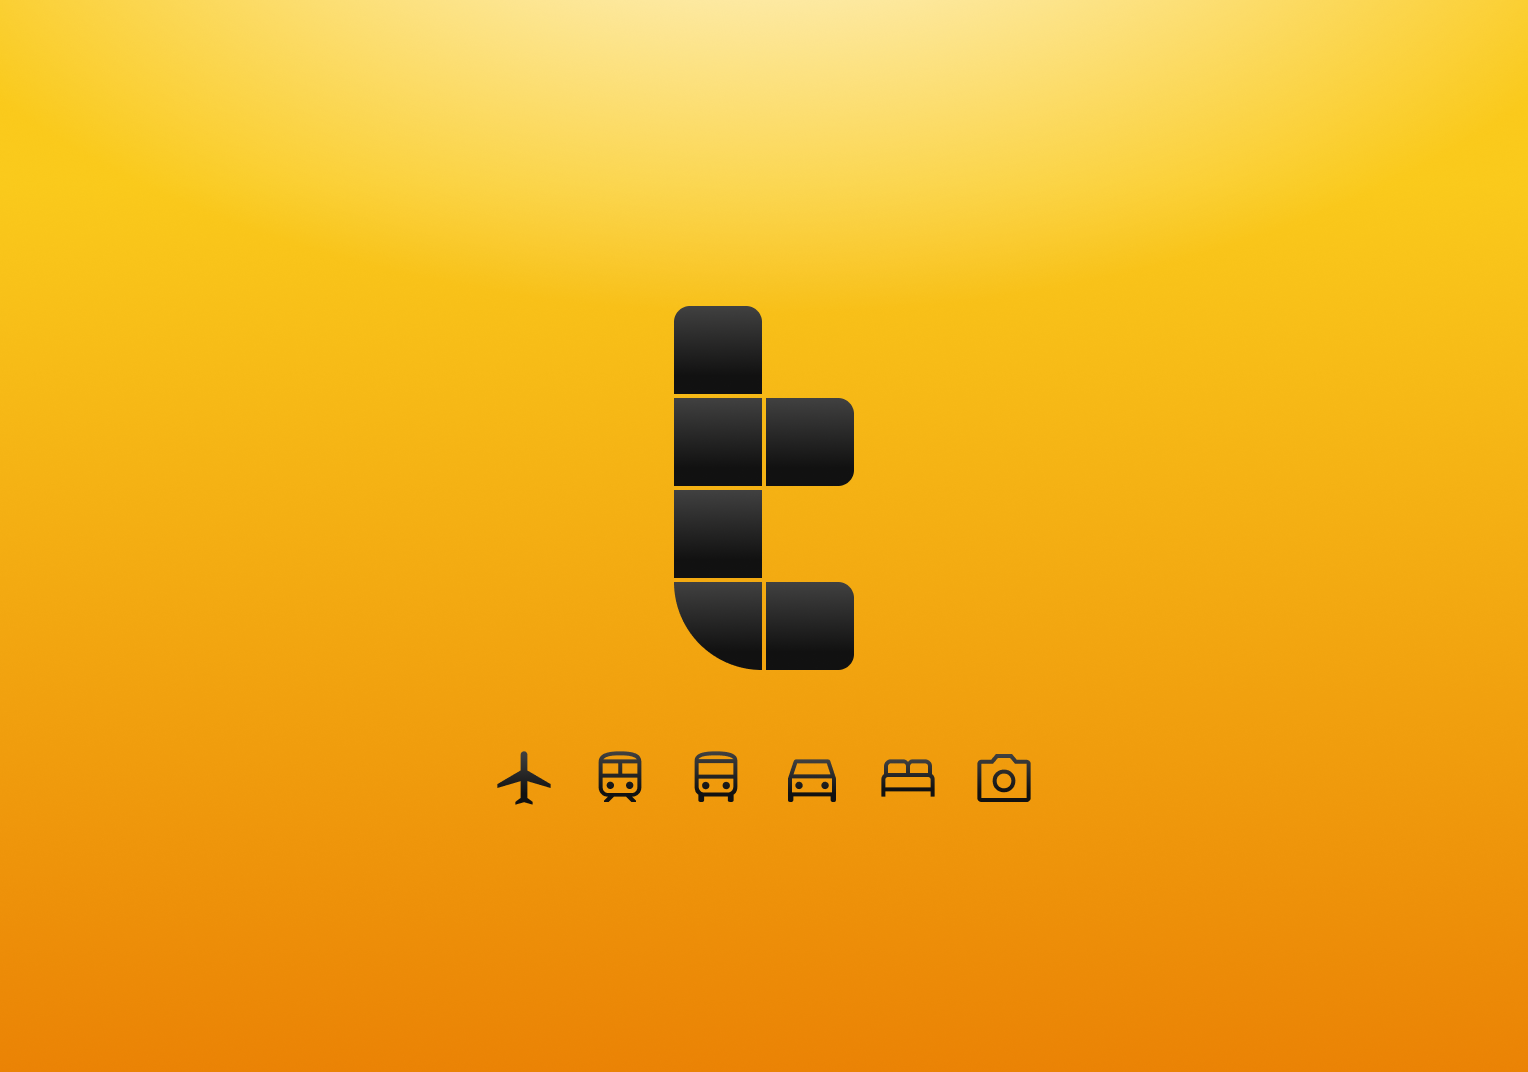
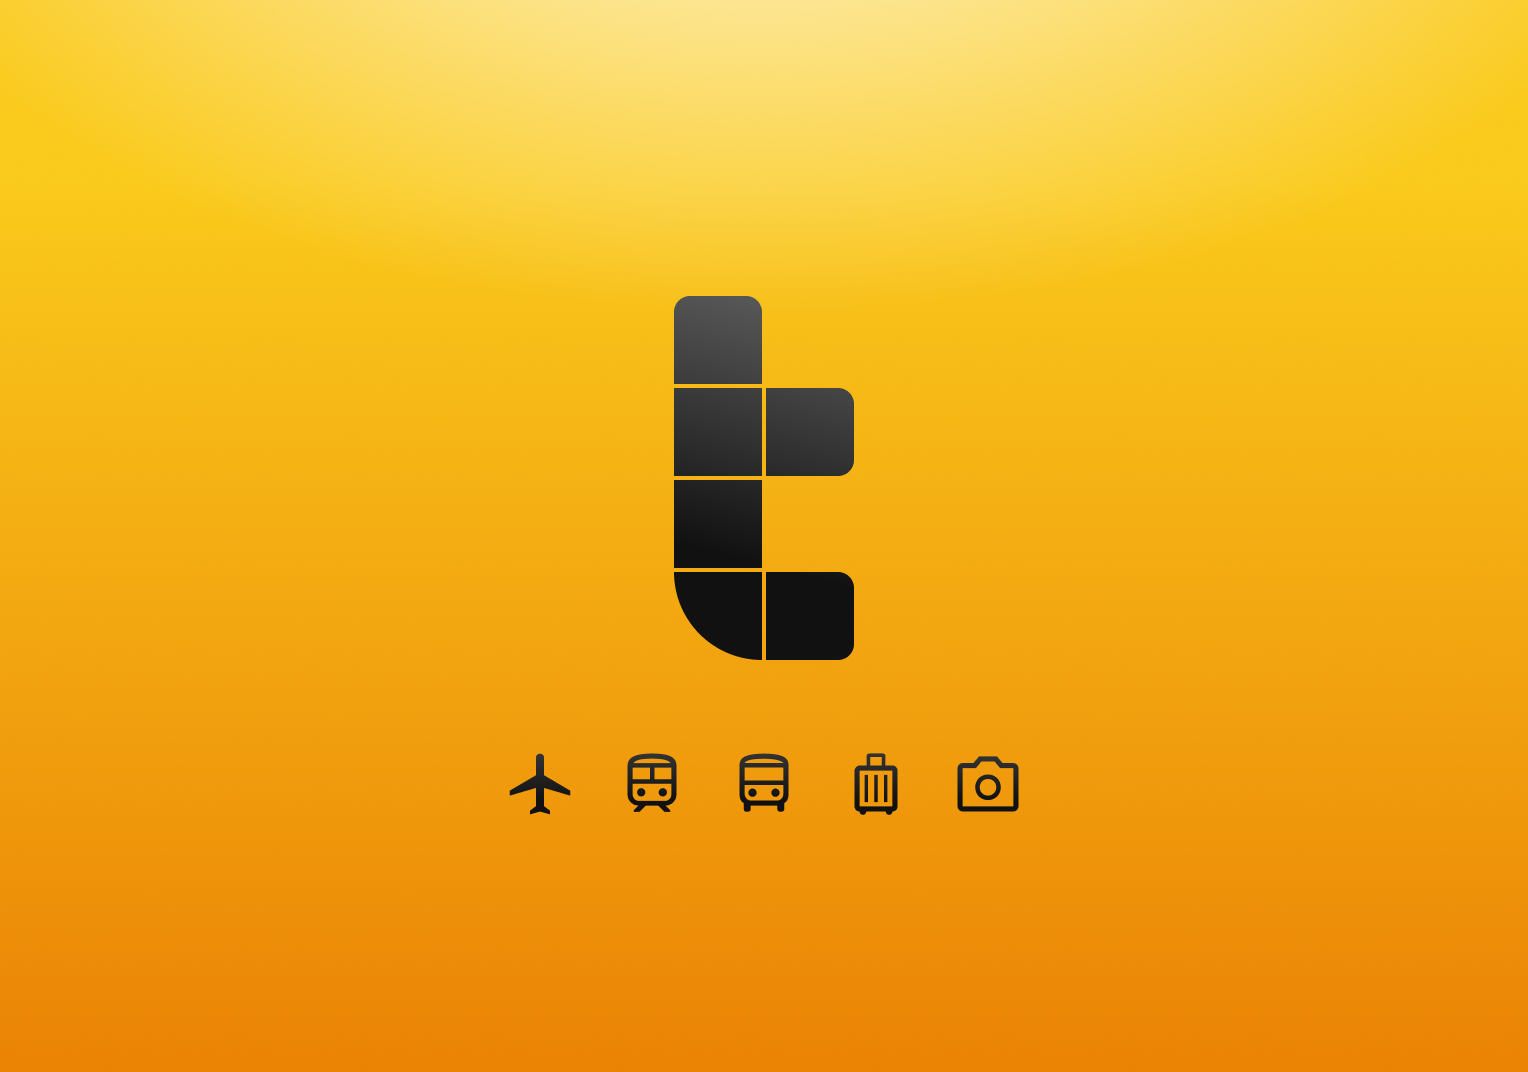
Fixed responsive

diff --git a/source/styles/responsive.css b/source/styles/responsive.css
@@ -1,5 +1,6 @@
 :root {
-	--ResMult: calc((100vw - 48px) / 1200);
+	--Res1200: calc((100vw - 48px) / 1200);
+	--Res680: calc((100vw - 48px) / 680);
 }
 
 @media (max-width: 1400px) {
@@ -7,7 +8,6 @@
 		padding: 88px 24px;
 	}
 }
-
 
 
 @media (max-width: 1248px) {
@@ -33,23 +33,23 @@
 
 	.charts-review video {
 		border-radius: .96vw;
-		width: calc(var(--ResMult) * 1136);
+		width: calc(var(--Res1200) * 1136);
 		height: auto;
 	}
 
 	.bp-chart img {
 		border-radius: .96vw;
-		width: calc(var(--ResMult) * 1136);
+		width: calc(var(--Res1200) * 1136);
 		height: auto;
 	}
 
 	.bp-chart .description p {
-		width: calc(var(--ResMult) * 408);
+		width: calc(var(--Res1200) * 408);
 		min-width: 330px;
 	}
 
 	.browser-frame {
-		width: calc(var(--ResMult) * 1200);
+		width: calc(var(--Res1200) * 1200);
 		height: auto;
 		border-radius: 0.96vw 0.96vw 0 0;
 		box-shadow: 0px 1.603vw 2.403vw rgba(0, 0, 0, 0.3),
@@ -57,18 +57,18 @@
 	}
 
 	.browser {
-		width: calc(var(--ResMult) * 1200);
+		width: calc(var(--Res1200) * 1200);
 		height: auto;
 	}
 
 	.phone {
-		width: calc(var(--ResMult) * 387);
-		border-radius: calc(var(--ResMult) * 32);
+		width: calc(var(--Res1200) * 387);
+		border-radius: calc(var(--Res1200) * 32);
 		box-shadow: 0px 3.77vw 3.04vw -2vw rgba(0, 0, 0, 0.6);
 	}
 
 	.asset {
-		gap: calc(var(--ResMult) * 64);
+		gap: calc(var(--Res1200) * 64);
 	}
 
 	.max-1200 {
@@ -77,12 +77,12 @@
 
 	.image-wrapper {
 		margin: 0 auto;
-		width: calc(var(--ResMult) * 1166);
-		height: calc(var(--ResMult) * 747);
+		width: calc(var(--Res1200) * 1166);
+		height: calc(var(--Res1200) * 747);
 	}
 	
 	.image-wrapper img {
-		width: calc(var(--ResMult) * 1187);
+		width: calc(var(--Res1200) * 1187);
 		height: auto;
 	}
 }
@@ -132,46 +132,45 @@
 	}
 
 	.bp-chart .description img {
-		width: calc(88vw / 860 * 100);
+		width: calc(136 / 860 * 100vw); 
 		height: auto;
-		margin-bottom: calc(8vw / 860 * 100);
+		margin-bottom: calc(8 / 860 * 100vw);
 	}
 
 	.mobile-experience .case {
 		padding-bottom: 40px;
+	}
+
+	.turisto-logo {
+		width: calc(390 / 860 * 100vw);
 	}
 }
 
 @media (max-width: 680px){
 
 	.case {
-		padding: calc(80vw / 680 * 100) 24px;
-		gap: calc(64vw / 680 * 100);
+		padding: calc(80 / 680 * 100vw) 24px;
+		gap: calc(64 / 680 * 100vw);
 	}
 
 	.case h1 {
-		font-size: calc(88vw / 680 * 100);
+		font-size: calc(88 / 680 * 100vw);
 	}
 
 	.case h2 {
-		font-size: calc(72vw / 680 * 100);
+		font-size: calc(72 / 680 * 100vw);
 	}
 
 	.case h3 {
-		font-size: calc(40vw / 680 * 100);
+		font-size: calc(40 / 680 * 100vw);
 	}
 
 	.description {
-		row-gap: calc(32vw / 680 * 100);
-	}
-
-	.bp-chart .description img {
-		width: calc(88vw / 680 * 100);
-		max-width: none;
+		row-gap: calc(32 / 680 * 100vw);
 	}
 
 	.h-logo {
-		width: calc(76vw / 680 * 100);
+		width: calc(76 / 680 * 100vw);
 		margin-bottom: 1.76vw;
 	}
 
@@ -194,7 +193,7 @@
 @media (max-width: 520px) {
 
 	.about-content img {
-		max-width: 240px;
+		width: 240px;
 		margin-top: 24px;
 		justify-self: center;
 	}
@@ -217,7 +216,6 @@
 		font-size: 32px;
 	}
 }
-
 
 
 @media (max-width: 460px) {

diff --git a/turisto.html b/turisto.html
@@ -43,19 +43,18 @@
 	</div>
 
     <section class="bg-yellow-gradient">
-        <div class="case black-color">
+        <div class="case">
 
-            <div class="description max-1200">
-				<img src="source/images/turisto/01-logo.svg" alt="Turisto logo" class="turisto-logo centered">
-				<img src="source/images/turisto/01-logo-type.svg" alt="Turisto logo type" class="turisto-logo-type centered">
-				<p class="black-body">Online travel agency and carriers aggregator. A&nbsp;unique service for building complex travel itineraries with different modes of transport such as planes, trains and buses. Offering route building, ticketing, hotel bookings, car rentals, exciting excursions all that make travel experience unique.</p>
+            <div class="description black-copy max-1200">
+				<img src="source/images/turisto/01-logo-type.svg" alt="Turisto logo" class="turisto-logo centered">
+				<p>Online travel agency and carriers aggregator. A&nbsp;unique service for building complex travel itineraries with different modes of transport such as planes, trains and buses. Offering route building, ticketing, hotel bookings, car rentals, exciting excursions all that make travel experience unique.</p>
             </div>
 
             <img src="source/images/turisto/02-site-index.png" alt="Turisto site index"  class="max-1200 centered browser-frame">
 
-            <div class="description max-1200">
-                <h2 class="white-color">Research. Test. Design.</h2>
-                <p class="black-body">Carried out numerous studies on users, their needs, expectations and pains on interaction with the service. Developed branding, made portal design, app design, created various promotional campaign materials for social media as well as animations, blog and video design.</p>
+            <div class="description black-copy max-1200">
+                <h2>Research and design</h2>
+                <p>Carried out numerous studies on users, their needs, expectations and pains on interaction with the service. Developed branding, made portal design, app design, created various promotional campaign materials for social media as well as animations, blog and video design.</p>
             </div>
 
         </div>

diff --git a/source/styles/cases.css b/source/styles/cases.css
@@ -19,7 +19,7 @@
     
     background:
     radial-gradient(47.46% 17.8% at 50% -8.72%, #FFFFFF 0%, rgba(255, 255, 255, 0) 100%),
-    linear-gradient(180deg, #FFCB0F 0%, #FF9305 96%);
+    linear-gradient(180deg, #FFC20A 0%, #FF9D00 100%);
 }
 
 .h-logo {
@@ -31,26 +31,13 @@
 }
 
 .turisto-logo {
-    width: 41px;
-    height: auto;
-}
-
-.turisto-logo-type {
-    width: 300px;
+    width: 390px;
     height: auto;
     margin-bottom: 24px;
 }
 
 p {
     max-width: 880px;
-}
-
-.black-color {
-    color: #14171A;
-}
-
-.white-color {
-    color: #fff;
 }
 
 .case {
@@ -99,6 +86,23 @@ p {
     margin: auto;
 }
 
+.black-copy {
+    color: #14171A;
+}
+
+.white-copy {
+    color: #fff;
+}
+
+.black-copy h2 {
+    font-weight: 800;
+}
+
+.black-copy p {
+    font-weight: 500;
+    letter-spacing: -0.01em;
+}
+
 .charts-review {
     gap: 104px;
 }
@@ -114,7 +118,7 @@ p {
 }
 
 .bp-chart .description img {
-    max-width: 136px;
+    width: 136px;
     height: auto;
     margin-bottom: 24px;
 }

diff --git a/harmonize.html b/harmonize.html
@@ -129,7 +129,6 @@
 		</div>
 	</section>
 
-
 	<footer>
 		<ul>
 			<li><a href="https://www.linkedin.com/in/dimademianenko/">LinkedIn</a></li>
